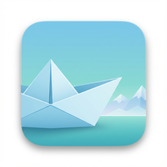
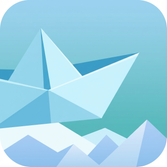
Fix asset visibility + cozy boat animation + debug logging
FIXES:
1. ✅ App Icon: Removed white border (regenerated with edge-to-edge gradient)
2. ✅ Boat Animation: Slowed down for cozy feel (2° angle, 4s period, was 3°/2.5s)
3. ✅ Asset Visibility: Fixed nested GeometryReader issue
   - FallingItemView now takes screenWidth/Height params directly
   - Removed nested GeometryReader that was causing positioning issues
   - Items now use absolute positioning via parent geometry
4. ✅ Collision Debug: Added extensive logging for troubleshooting
   - Log spawn events with positions
   - Log collision detections with distances
   - Monitor boat position updates

TECHNICAL:
- FallingItemView: Removed GeometryReader, uses params instead
- GameView: Pass geometry.size.width/height to each FallingItemView
- AssetAnimations: BoatRocking period 2.5s → 4.0s, angle 3° → 2°
- FallingItemManager: Added debug prints for spawns + collisions
- App Icon: Added "NO white borders" to prompt

EXPECTED BEHAVIOR:
- Assets should now be visible (fixed positioning)
- Boat rocks more slowly and gently
- Debug logs will show spawn/collision events
- App icon has no white border

Next: Test in simulator and verify collision detection works

diff --git a/ZenOrigamiApp/ZenOrigamiApp/Views/GameView.swift b/ZenOrigamiApp/ZenOrigamiApp/Views/GameView.swift
@@ -79,38 +79,53 @@ struct GameView: View {
                 ZStack {
                     // Falling Drops
                     ForEach(fallingItemManager.fallingDrops) { item in
-                        FallingItemView(item: item, assetName: "drop")
-                            .onTapGesture {
-                                if fallingItemManager.collectDrop(at: item.id) {
-                                    viewModel.collect(currency: .drop, amount: 1)
-                                    SoundManager.shared.playDropCollect()
-                                    HapticFeedback.light()
-                                }
+                        FallingItemView(
+                            item: item,
+                            assetName: "drop",
+                            screenWidth: geometry.size.width,
+                            screenHeight: geometry.size.height
+                        )
+                        .onTapGesture {
+                            if fallingItemManager.collectDrop(at: item.id) {
+                                viewModel.collect(currency: .drop, amount: 1)
+                                SoundManager.shared.playDropCollect()
+                                HapticFeedback.light()
                             }
+                        }
                     }
 
                     // Falling Pearls
                     ForEach(fallingItemManager.fallingPearls) { item in
-                        FallingItemView(item: item, assetName: "pearl")
-                            .onTapGesture {
-                                if fallingItemManager.collectPearl(at: item.id) {
-                                    viewModel.collect(currency: .pearl, amount: 1)
-                                    SoundManager.shared.playPearlCollect()
-                                    HapticFeedback.light()
-                                }
+                        FallingItemView(
+                            item: item,
+                            assetName: "pearl",
+                            screenWidth: geometry.size.width,
+                            screenHeight: geometry.size.height
+                        )
+                        .onTapGesture {
+                            if fallingItemManager.collectPearl(at: item.id) {
+                                viewModel.collect(currency: .pearl, amount: 1)
+                                SoundManager.shared.playPearlCollect()
+                                HapticFeedback.light()
                             }
+                        }
                     }
 
                     // Falling Leaves
                     ForEach(fallingItemManager.fallingLeaves) { item in
-                        FallingItemView(item: item, assetName: "leaf")
-                            .onTapGesture {
-                                if fallingItemManager.collectLeaf(at: item.id) {
-                                    viewModel.collect(currency: .leaf, amount: 1)
-                                    SoundManager.shared.playLeafCollect()
-                                    HapticFeedback.light()
-                                }
+                        FallingItemView(
+                            item: item,
+                            assetName: "leaf",
+                            screenWidth: geometry.size.width,
+                            screenHeight: geometry.size.height
+                        )
+                        .onTapGesture {
+                            if fallingItemManager.collectLeaf(at: item.id) {
+                                viewModel.collect(currency: .leaf, amount: 1)
+                                SoundManager.shared.playLeafCollect()
+                                HapticFeedback.light()
                             }
+                        }
                     }
 
                     // Boat (Player)

diff --git a/ZenOrigamiApp/ZenOrigamiApp/Views/FallingItemView.swift b/ZenOrigamiApp/ZenOrigamiApp/Views/FallingItemView.swift
@@ -1,44 +1,48 @@
 import SwiftUI
 
 /// Visual representation of a falling collectible item
+/// IMPORTANT: Must be used inside a GeometryReader that provides screen dimensions
 struct FallingItemView: View {
     let item: FallingItem
     let emoji: String?
     let assetName: String?
+    let screenWidth: CGFloat
+    let screenHeight: CGFloat
+
     @State private var currentY: CGFloat
 
-    init(item: FallingItem, emoji: String? = nil, assetName: String? = nil) {
+    init(item: FallingItem, emoji: String? = nil, assetName: String? = nil, screenWidth: CGFloat, screenHeight: CGFloat) {
         self.item = item
         self.emoji = emoji
         self.assetName = assetName
+        self.screenWidth = screenWidth
+        self.screenHeight = screenHeight
         self._currentY = State(initialValue: item.y)
     }
 
     var body: some View {
-        GeometryReader { geometry in
-            ZStack {
-                if let assetName = assetName {
-                    // Use Image asset with animations
-                    itemImage(for: assetName)
-                } else if let emoji = emoji {
-                    // Fallback to emoji
-                    Text(emoji)
-                        .font(.system(size: item.isCollected ? 48 : 32))
-                }
+        Group {
+            if let assetName = assetName {
+                // Use Image asset with animations
+                itemImage(for: assetName)
+            } else if let emoji = emoji {
+                // Fallback to emoji
+                Text(emoji)
+                    .font(.system(size: item.isCollected ? 48 : 32))
             }
-            .opacity(item.isCollected ? 0 : 1)
-            .scaleEffect(item.isCollected ? 1.5 : 1.0)
-            .position(
-                x: item.x * geometry.size.width,
-                y: currentY * geometry.size.height
-            )
-            .onAppear {
-                withAnimation(.linear(duration: item.duration)) {
-                    currentY = item.targetY
-                }
-            }
-            .animation(.spring(response: 0.3), value: item.isCollected)
         }
+        .opacity(item.isCollected ? 0 : 1)
+        .scaleEffect(item.isCollected ? 1.5 : 1.0)
+        .position(
+            x: item.x * screenWidth,
+            y: currentY * screenHeight
+        )
+        .onAppear {
+            withAnimation(.linear(duration: item.duration)) {
+                currentY = item.targetY
+            }
+        }
+        .animation(.spring(response: 0.3), value: item.isCollected)
     }
 
     /// Apply appropriate animation based on item type
@@ -82,13 +86,17 @@ struct FallingItemView: View {
 }
 
 #Preview {
-    ZStack {
-        Color.blue.opacity(0.2)
-            .ignoresSafeArea()
+    GeometryReader { geometry in
+        ZStack {
+            Color.blue.opacity(0.2)
+                .ignoresSafeArea()
 
-        FallingItemView(
-            item: FallingItem(x: 0.5, y: 0.1, targetY: 0.9, duration: 2.0),
-            emoji: "💧"
-        )
+            FallingItemView(
+                item: FallingItem(x: 0.5, y: 0.1, targetY: 0.9, duration: 2.0),
+                assetName: "drop",
+                screenWidth: geometry.size.width,
+                screenHeight: geometry.size.height
+            )
+        }
     }
 }

diff --git a/ZenOrigamiApp/ZenOrigamiApp/ViewModels/FallingItemManager.swift b/ZenOrigamiApp/ZenOrigamiApp/ViewModels/FallingItemManager.swift
@@ -82,17 +82,20 @@ class FallingItemManager {
     private func spawnDrop() {
         let item = createFallingItem()
         fallingDrops.append(item)
+        print("[Spawn] 💧 Drop at x:\(item.x), y:\(item.y) → \(item.targetY)")
     }
 
     private func spawnPearl() {
         // Pearls rise from bottom to surface (opposite of falling)
         let item = createRisingItem()
         fallingPearls.append(item)
+        print("[Spawn] 🔵 Pearl at x:\(item.x), y:\(item.y) → \(item.targetY) (rising)")
     }
 
     private func spawnLeaf() {
         let item = createFallingItem()
         fallingLeaves.append(item)
+        print("[Spawn] 🍃 Leaf at x:\(item.x), y:\(item.y) → \(item.targetY)")
     }
 
     /// Create a falling item (drops, leaves) - falls from top to bottom
@@ -194,10 +197,18 @@ class FallingItemManager {
 
     /// Check if an item is within collection radius of the boat
     private func isItemNearBoat(_ item: FallingItem) -> Bool {
+        let itemY = getCurrentItemY(item)
         let dx = item.x - boatPosition.x
-        let dy = getCurrentItemY(item) - boatPosition.y
+        let dy = itemY - boatPosition.y
         let distance = sqrt(dx * dx + dy * dy)
-        return distance <= collectionRadius
+        let isNear = distance <= collectionRadius
+
+        // DEBUG: Log first collision check
+        if isNear {
+            print("[Collision] 🎯 Item near boat! itemPos:(\(item.x), \(itemY)), boatPos:(\(boatPosition.x), \(boatPosition.y)), distance:\(distance), radius:\(collectionRadius)")
+        }
+
+        return isNear
     }
 
     /// Get current Y position of an item (accounting for animation)

diff --git a/ZenOrigamiApp/ZenOrigamiApp/Utils/AssetAnimations.swift b/ZenOrigamiApp/ZenOrigamiApp/Utils/AssetAnimations.swift
@@ -14,7 +14,7 @@ enum AssetAnimations {
         let rockingAngle: Double
         let wavePeriod: Double
 
-        init(rockingAngle: Double = 3.0, wavePeriod: Double = 2.5) {
+        init(rockingAngle: Double = 2.0, wavePeriod: Double = 4.0) {  // Slower, more cozy
             self.rockingAngle = rockingAngle
             self.wavePeriod = wavePeriod
         }

diff --git a/generate_app_icon.py b/generate_app_icon.py
@@ -47,9 +47,12 @@ STYLE REQUIREMENTS:
 - Minimal details, maximum impact
 - Zen aesthetic, modern minimalist
 - 2.5D illustration style
+- NO white borders or edges
+- Content must extend to all edges of the canvas
 
 Square format 1024x1024px.
 Solid background (NO transparency - iOS requirement).
+Background gradient must reach ALL EDGES with no white border.
 Rounded corners added automatically by iOS.
 Style: iOS app icon, game-ready, stylized origami art.''',
     'filename': 'AppIcon.png'
